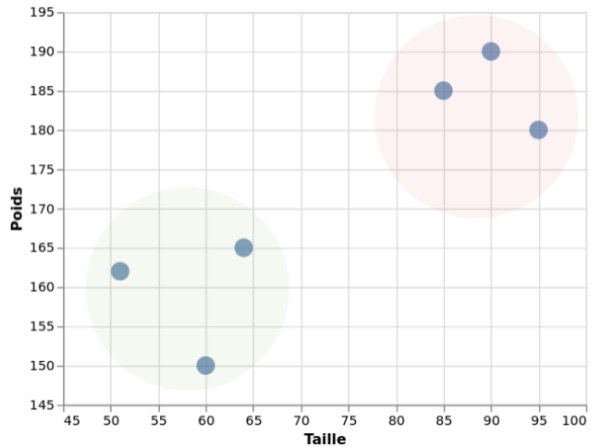
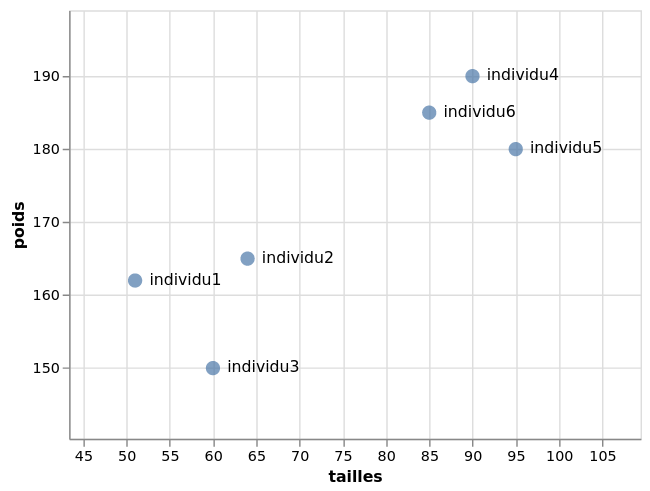
"Update PCA post ! Ready to publish

diff --git a/content/pca.md b/content/pca.md
@@ -1,86 +1,85 @@
 Title: L'analyse en composante principale
-Slug: lanalyse-en-composante-principale
-Date: 2020-07-12 17:48:28
-Modified: 2020-07-12 17:48:28
-Tags: 
+Slug: analyse-en-composante-principale
+Date: 2020-09-20 18:34:56
+Modified: 2020-09-20 18:34:56
+Tags: statistique,machine learning,python
 Category: informatique
-Author: Sacha schutz
+Author: Sacha SCHUTZ
 Status: Draft
+SIDEBARIMAGE:../images/common/stat_banner.jpg
 
-
-L'analyse en composante principale ou PCA (e component analysis) est une méthode de réduction de dimension,largement utilisé en statistique descriptive pour visualiser sur un graphique à 2 ou 3 dimensions des données décrite sur plus de 3 dimensions. 
-Dans ce billet, nous essayerons d'abord de comprendre le principe général avec l'exemple simple d'un passage de 2 dimensions à 1 dimensions. Les plus courageux pourront continuer à lire pour comprendre les mathématiques sous jacente et comment réaliser cette transformation en Python. 
+[L'analyse en composante principale](https://fr.wikipedia.org/wiki/Analyse_en_composantes_principales) ou PCA (Principal component analysis) est une méthode de [réduction de dimension,](https://fr.wikipedia.org/wiki/R%C3%A9duction_dimensionnelle) largement utilisée en [statistique descriptive](https://fr.wikipedia.org/wiki/Statistique_descriptive), pour visualiser sur un graphique à 2 ou 3 dimensions des données décrites sur plus de dimensions. 
+Dans ce billet, nous chercherons d'abord à comprendre le principe général avec l'exemple simple d'un passage de 2 dimensions à 1 dimension. Puis nous détaillerons les bases mathématiques sous-jacentes et comment réaliser cette transformation en Python.
 
 ## Tout commence avec un tableau
-Chaque fois que je suis amené à analyser des données, mon première reflexe et d'identifier un tableau de donnée ou chaque ligne represente une observation et chaque colonne une variable décrivant l'observation.
-Par exemple le tableau suivant, represente la taille et le poid chez 6 individus:
+Chaque fois que je suis amené à analyser des données, mon premier réflexe et d'identifier un tableau ou chaque ligne représente une observation et chaque colonne une variable décrivant l'observation. 
+Par exemple le tableau suivant, représente la taille et le poids chez 6 individus:
 
 <div class="figure"><img src="../images/pca/table.png" /><div class="legend">
 Tableau de données avec 6 observations et deux variables.
 </div> 
 </div>
 
-Un façon de visualiser ces données sur un graphique est de considéré chaque observations comme un point ( ou vecteur ) dans un espace à deux dimensions décrivant les deux variables. On observe alors 2 groupes de points qui se ressemble. 
+D'un point de vue géométrique, nous pouvons représenter chacune de ces 6 observations par un point (ou vecteur) dans un [espace](https://fr.wikipedia.org/wiki/Dimension_d%27un_espace_vectoriel) à 2 dimensions correspondant aux deux variables. Ce graphique nous montre alors la proximité entre les observations. Par exemple sur le graphique ci-dessous, les individus 1,2,3 et les individus 4,5,6 forment respectivement deux groupes.
 
 
 <div class="figure"><img src="../images/pca/2dplot.png" /><div class="legend">
-Répresentation dans un espace à deux dimensions du tableau de données. Chaque observation est representé par un point.
-Sont entouré, les groupes de points qui sont proche. 
-De façon général, les M observations du tableau de données peuvent être vu comme des vecteurs dans un espace à N dimensions. L'ensemble formant une matrice de dimension NxM.
+Représentation dans un espace à deux dimensions du tableau de données. Chaque observation est représentée par un point ou vecteur.
+De façon générale, les M observations d'un tableau de données peuvent être vu comme les M vecteurs dans un espace à N dimensions. L'ensemble formant une matrice de dimension NxM.
 </div> 
 </div>
 
+En ajoutant une nouvelle variable dans ce tableau, par exemple l'âge d'un individu, nous pouvons représenter les observations par un graphique à 3 dimensions. Mais avec plus de variables, et donc plus de dimensions cela devient problématique.      
+La solution à ce problème est la réduction de dimension en transformant par exemple un tableau à 10 variables vers un tableau à 2 variables facilement représentable sur un graphique.   
+Pour comprendre comment cette transformation fonctionne, partons d'un cas simple: La réduction d'un tableau à 2 dimensions vers un tableau à 1 dimension. Il suffira ensuite de généraliser cette méthode à N dimensions.
 
-En utilisant 3 variables, nous pourions faire un graphique à 3 dimensions. Mais avec plus de variable, et donc plus de dimensions cela devient problèmatique à répresenter.      
-La solution à ce problème est la réduction de dimension en transformant par exemple un tableau à 100 variables vers un tableau à 2 ou 3 variables facillement representable graphiquement.   
-Pour comprendre comment çela fonctionne, partons d'un cas simple. La réduction d'un tableau à  2 dimensions vers un tableau à 1 dimension. 
-
-## Passage 2 dimensions à 1 dimension 
-Reprenons notre graphique à 2 dimensions et essayons de le réduire à 1 dimensions. Pour cela, nous pouvons tracer un axe passant au mieux par tous les points. Puis faire la projection de chaque points sur cette axe. 
-Cette axe ou composante principale, permet alors de representer les données sur un graphique à 1 dimension avec les deux groupes de points toujours visible.  
+## Passage de 2 dimensions à 1 dimension
+Pour faire cette transformation, il faut s'imaginer un axe passant au mieux par tous les points. Puis faire la projection de chaque point sur cet axe. 
+Cet axe ou composante principale est une nouvelle dimension fictive qui nous permet de représenter les observations sur 1 dimension. Et comme vous pouvez le constater sur le graphique ci-dessous, les deux groupes identifiables dans l'espace bidimensionnel l'est toujours dans ce nouvelle espace unidimensionnel.
 
 <div class="figure"><img src="../images/pca/pca2D.png" /><div class="legend">
-Réduction de dimensions d'un espace à 2 dimensions vers in espace à 1 dimensions. 
-L'information des 2 groupes de points est conservés. 
+Réduction de dimensions d'un espace à 2 dimensions vers in espace à 1 dimension. Les deux groupes d'individus sont toujours identifiables.
 </div> 
 </div>
 
-Il y a cependant une perte d'information à prendre en compte comme l'illustre le graphique suivant. Plus les points sont corrélé entre eux, et plus l'information récupéré est grande. Gardez en tête qu'une réduction de dimension par PCA doit toujours être accompagné de la quantité d'information récupéré pour être interpretable.
+Il faut cependant garder en tête qu'il y a une perte d'information lorsque l'on réalise cette transformation. Des données différentes avant transformation peuvent aboutir aux mêmes résultats. Plus les points sont corrélés entre eux, et plus l'information récupérée après la réduction de dimension sera grande. Une réduction de dimension par PCA doit donc **TOUJOURS** s'accompagner de la quantité d'information récupérée pour être interprétable.
 
 <div class="figure"><img src="../images/pca/pca_information.png" /><div class="legend">
-Réduction de dimensions d'un espace à 2 dimensions vers in espace à 1 dimensions. 
-Dans les 3 exemples, la réduction de dimensions ammène aux même résultats. La différence est lié à la quantité d'information récupéré par la composante principale. Le premier graphique récupère que 40% de l'information tandisque la dernière récupère 90% de l'information.
+Réduction de dimensions d'un espace à 2 dimensions vers un espace à 1 dimensions. 
+Dans les 3 exemples, la réduction de dimensions amène aux mêmes résultats. La différence est liée à la quantité d'information récupérée par la composante principale. Le premier graphique récupère que 40% de l'information tandisque la dernière récupère 90% de l'information.
 </div> 
 </div>
 
-Une Analyse en composante principale c'est juste ça. Trouver les axes (ou composante principale) passants au mieux par l'ensemble des points. Dans notre cas, nous avons chercher un axe dans un espace 2D. Mais avec un peu d'abstraction de votre part, vous pouvez deviner qu'il est tout aussi possible de chercher 1,2 ou 3 axes passant au mieux parmis des points dans un espace à N dimensions. 
-L'exemple suivant est obtenu à partir du j[eux de données iris](https://fr.wikipedia.org/wiki/Iris_de_Fisher) contenant 50 observations de fleurs et 4 variables. 
 
-<div class="figure"><img src="../images/pca/iris.png" /><div class="legend">
-Réduction d'un espace à 4 dimensions vers un espace à 2 dimensions.
-</div> </div> 
+## Comprendre le calcul 
+Nous allons maintenant voir comment trouver ces axes par le calcul, pour ensuite généraliser la méthode à N dimensions. Pour cela, quelque prérequis d'[algèbre linéaire](https://fr.wikipedia.org/wiki/Alg%C3%A8bre_lin%C3%A9aire) sont nécessaires. 
 
-Chacun des deux composante (P1 et P2) represente un axe passant au mieux par l'ensemble des points dans l'espace à 4 dimensions. Ces 2 axes sont orthogonaux dans l'espace 4D et sont accompagné du pourcentage d'information récupéré. En effet, le premiere axe passe au mieux par les points puis le deuxième axes récupère l'information non récupéré par le premier. Si la somme des deux pourcentage est proche de 100%, c'est que l'information de vos données se résume très bien dans un espace 2D.
+### Transformation linéaire
 
-## Comprendre le calcul 
-Pour les plus curieux, nous allons expliquer en détail comme trouver ces deux axes par le calcul à l'aide d'une interpretation géométrique.
+En multipliant un [vecteur](https://fr.wikipedia.org/wiki/Vecteur) $\vec{v}$ (un point) par une [matrice](https://fr.wikipedia.org/wiki/Matrice) $M$  on obtient un nouveau vecteur $\vec{v_t}$. Autrement dit, on déplace le point vers un autre endroit grâce à une [matrice de transformation](https://en.wikipedia.org/wiki/Transformation_matrix).
 
-### Transformation linéaire
+$$ 
+\vec{v_t} = M \vec{v}
+$$
 
-En multipliant un vecteur (un point) par une matrice on obtient un nouveau vecteur. Autrement dit, on déplace le point vers un autre endroit. 
+Par exemple, en infographie, on utilise ces matrices pour réaliser différente transformation d'objet comme des rotations, des déformations, des agrandissements etc ...  
+Dans l'exemple ci-dessous, les 3 vecteurs (bleu, vert, rouge) définissent un carré. En faisant le produit de chaque vecteur par une matrice de  transformation, on obtient 3 nouveaux vecteurs représentant le carré transformé. Essayer [ce site ](https://web.ma.utexas.edu/users/ysulyma/matrix/)pour tester.
 
-equation
-v' = v * M
+<div class="figure"><img src="../images/pca/matrix_transformation.png" /><div class="legend"> Différente matrice de transformation sur un un objet à 3 vecteurs<a href="https://en.wikipedia.org/wiki/Transformation_matrix"> Source </a></div> </div>
 
-Des matrices particulière, appelé matrice de transformation, sont largement utilisé en infographie pour réaliser des translations, des rotations ou des redimensionnement en 2 ou en 3 dimensions. 
-Par exemple, dans le cas ci-dessous, les 4 vecteurs définissant le carré sont transformé par la matrice de transformation M . Je vous invite à tester en ligne les differences transformation possible. 
 
 ### Vecteur propre et valeur propre 
 
-Le vecteur propre d'une matrice de transformation est un vecteur qui ne change pas sa direction après transformation. Quand à la valeur propre, elle indique le facteur d'elongation de ce vecteur après transformation. 
-Dans l'exemple, ci-dessus, la transformation à 2 deux vecteurs propres ... 
+Les [vecteurs propres ](https://fr.wikipedia.org/wiki/Valeur_propre,_vecteur_propre_et_espace_propre)(eigen vector) d'une matrice de transformation sont les vecteurs qui ne changent pas de direction après transformation. Chacun de ces vecteurs est associé à une [valeur propre](https://fr.wikipedia.org/wiki/Valeur_propre,_vecteur_propre_et_espace_propre) $\lambda$ (eigen value) indiquant le degré d'élongation. 
 
-<center>Pour trouver les vecteurs et valeurs propres de la matrice A:</center>
+<div class="figure"><img src="../images/pca/eigen_transformation.png" /><div class="legend">
+Transformation d'un vecteur propre v par une matrice de transformation. Le vecteur transformé vt conserve sa direction. La valeur propre est de 2.
+</div> 
+</div>
+
+
+### Calcul du vecteur et de la valeur propre
+Pour trouver les vecteurs et valeurs propres d'une matrice A: 
 
 $$ A = \begin{bmatrix}
 a & b \\ 
@@ -88,7 +87,7 @@ c & d
 \end{bmatrix}
 $$
 
-<center>Il faut donc résoudre l'equation suivante</center>
+<center>Il faut donc résoudre l'équation suivante.</center>
 
 $$A\vec{v} = \lambda \vec{v}$$
 
@@ -96,7 +95,7 @@ $$A\vec{v} = \lambda \vec{v}$$
 
 $$(A-\lambda I) \vec{v} = \vec{0}$$
 
-<center>Cette equation admet des solution(s) $\lambda$ si :</center> 
+<center>Cette équation admet des solution(s) $\lambda$ si :</center> 
 
 $$det(A-\lambda I) = 0 $$
 
@@ -107,87 +106,120 @@ c & d - \lambda
 \end{bmatrix}) = 0
 $$
 
-<center>Pour trouver $\lambda$ Il suffit donc de résoudre : </center>
+<center>Pour trouver $\lambda$ il suffit donc de résoudre : </center>
 
 $$
 (a - \lambda)(c - \lambda) - bc = 0
 $$
 
-En remplacant lambda dans l'equation d'origine, ou trouve alors les vecteurs propres associés. 
+En remplaçant lambda dans l'équation d'origine, nous trouvons alors les vecteurs propres associés.     
+Avant de comprendre en quoi les vecteurs propres sont utiles pour notre réduction de dimension, il nous faut encore définir une chose: *la matrice de covariance*.
 
 ### Matrice de covariance 
-**La variance** d'une variable x, informe de la dispersion des données autour de la moyenne. C'est la moyenne de tous les écarts à la moyenne.
+**La variance** d'une variable x, informe de la dispersion des données autour de la moyenne. C'est la moyenne de tous les écarts à la moyenne au carré.
 Elle s'écrit : 
 
 $$var(x) = \frac{1}{N} \sum_{i=0}^{n} (x-\bar{x})^{2}$$
 
 Dans notre tableau, la variance de la taille et du poids sont respectivement de 328.5 et 238.
 
-**La covoariance** entre deux variables indique la variance d'une variable x par rapport à une variable y. Elle indique le dégrés de corrélation entre deux variable. Elle s'écrit :
+**La covariance** entre deux variables indique la variance d'une variable x par rapport à une variable y. Elle indique le degré de corrélation entre deux variables. Elle s'écrit :
 
 $$cov(x,y) = \frac{1}{N} \sum_{i=0}^{n} (x_i - \bar{x})(y_i - \bar{y})$$
 
-Plus les variables x et y sont corrélé, plus la valeur absolu de la covariance est grande : 
+Plus les variables x et y sont corrélé, plus la valeur absolue de la covariance est grande : 
 
 <div class="figure"><img src="../images/pca/cov.png" /><div class="legend">
 
 </div> </div> 
 
-**La matrice de covariance** est une matrice carré contenant l'ensemble des covariance entre variable pris 2 à 2. 
+**La matrice de covariance** est une matrice carrée contenant l'ensemble des covariances entre variables prises 2 à 2. 
 
 $$M = \begin{bmatrix}
 cov(x,x) & cov(x,y) \\ 
 cov(y,x) & cov(y,y) 
 \end{bmatrix}$$
 
-Avec notre tableau des 6 individus et 2 variables, nous obtenons : 
 
-<div class="figure"><img src="../images/pca/cov_df.png" /><div class="legend">
+### Trouver les axes principaux
+Vous avez maintenant tous les ingrédients pour comprendre comment trouver les axes passant aux mieux par vos données. Car voilà... Les axes d'une analyse en composante principale correspondent aux **vecteurs propres** de la matrice de covariance de vos données. Et la quantité d'information récupérée par chaque axe correspond aux **valeurs propres** de leurs vecteurs associés. 
+
+<div class="figure"><img src="../images/pca/eigen_2d.png" /><div class="legend">
+Les vecteurs propres de la matrice de covariance correspondent aux deux axes passant aux mieux par les données. Ici l'axe 1 récupère davantage d'information que l'axe 2. 
+Les vecteurs propres sont toujours orthogonaux entre eux.
+</div> 
+</div>
+
+En généralisant, pour réduire un espace à N dimension vers un espace à K dimensions, il suffit de faire la projection des points de l'espace de départ sur les K premiers vecteurs propres qui récupère le maximum d'information. C'est à dire ceux qui ont les valeurs propres les plus grande. 
+Passons à la pratique pour voir, en réalisant toutes ces opérations en Python.
+
+## Analyse en composante principale en Python 
+
+Pour cela, nous allons tester à partir du [jeux de données iris](https://fr.wikipedia.org/wiki/Iris_de_Fisher) contenant 50 observations de fleurs et 4 variables (ou 4 dimensions) en réduisant ces données sur 2 dimensions. 
+
+```python
+import numpy as np 
+from numpy import linalg as LA
+from sklearn import datasets
+from sklearn.decomposition import PCA
+
+# Téléchargement du jeux de données iris 
+!wget https://raw.githubusercontent.com/mwaskom/seaborn-data/master/iris.csv
+iris = pd.read_csv("iris.csv")
+
+# On conserve que les 4 premières colonnes 
+data = iris.iloc[:,:-1]
+
+# La dernière correspond aux noms d'espèces
+species = iris.iloc[:,-1:]
+
+# Calcul de la matrice de covariance 
+cov_matrix = data.cov()
+
+# Calcul des vecteurs et valeurs propres de la matrice de covariance 
+eigen_values, eigen_vectors = LA.eig(cov_matrix)
+
+# Calcul de l'information récupéré en pourcentage sur les 2 premiers axes
+info = (eigen_values / sum(eigen_values) * 100).round(2)
+axe1_info = info[0]
+axe2_info = info[2]
+
+# Projection des points sur les deux premiers vecteurs 
+projection_matrix = eigen_vectors.T[:][:2].T
+data_t = data.dot(projection_matrix)
+
+# Affichage des nouvelles données à 2 dimensions
+data_t.columns = ["axe1", "axe2"]
+data_t["species"] = species
+
+alt.Chart(data_t).mark_point().encode(
+    x=alt.X("axe1", title=f"axe 1 {axe1_info}%"), 
+    y=alt.Y("axe2", title=f"axe 2 {axe2_info}%"), 
+    color="species")
+
+```
+
+
+<div class="figure"><img src="../images/pca/iris.png" /><div class="legend">
+Réduction d'un espace à 4 dimensions vers un espace à 2 dimensions.
 </div> </div> 
 
-
-
-### Trouver les axes 
-
-Les vecteurs propres de la matrice de covariance sont les axes recherches. 
-La valeurs propre indique la quantité d'information récupéré. 
-
-array([528.89387928,  37.67278739])
-
-array([[ 0.76953573, -0.63860376],
-       [ 0.63860376,  0.76953573]])
-
-### Projection des vecteurs sur les axes 
-
-Il suffit maintenant de projeter les points sur le vecteur choisi à l'aide de l'equation suivante : ...
-
-
-
-## En Python 
-
-### avec numpy 
-
-#### Avec sklearn
-
-
+Ce graphique représente donc la projection d'observation d'un espace à 4 dimensions vers un espace à deux dimensions. Ces 2 axes sont accompagnés du pourcentage d'information récupéré grâce aux valeurs propres. Le premier axe récupère 92,46% de l'information puis le second récupère 5.31%. Au total, les 2 premiers axes ont récupéré plus de 97% de l'information. Et comme les couleurs nous le montre, nous constatons que les fleurs de la même espèce sont à proximité dans cette espace bidimensionnel. 
 
 
 ## Conclusion 
-L'analyse en composante principale est une méthode parmi d'autre, de réduction de dimension. Il existe d'autre méthode avec chacune leurs avantage. Notaemmment les méthodes non linéaire comme t-SNE ou UMAP. 
-sachez aussi que la PCA a d'autre application en informatique, notamment dans le traitement d'image et la réduction du bruit. En effet si vous faite une PCA puis si vous refaite l'inverse, alors vous supprimerez le bruit comme l'illustre l'image ci-dessous.
-
-https://towardsdatascience.com/the-jewel-of-the-matrix-a-deep-dive-into-eigenvalues-eigenvectors-22f1c8da11fd
-
-https://www.visiondummy.com/2014/04/geometric-interpretation-covariance-matrix/
+Nous avons vu dans ce billet, comment réaliser une analyse en composante principale pas à pas. Bien entendu, il existe des librairies permettant de réaliser cette transformation en une ligne, comme [ici avec sklearn](https://scikit-learn.org/stable/auto_examples/decomposition/plot_pca_iris.html). Mais, c'est toujours bien de comprendre comment ça marche ! 
+Par ailleurs, l'analyse en composante principale est une méthode parmi d'autres, de réduction de dimension. Il en existe d'autres avec chacune leurs avantages. Notamment des méthodes non linéaires comme [t-SNE](https://fr.wikipedia.org/wiki/Algorithme_t-SNE) ou [UMAP](https://en.wikipedia.org/wiki/Nonlinear_dimensionality_reduction). 
+Sachez aussi que la PCA a d'autres applications en informatique, notamment dans le traitement d'image, la compression et la réduction du bruit. En effet si vous faites une PCA sur une image, vous récupérer le maximum d'information utile sans le bruit. En faisant l'inverse d'une PCA, vous reconstituerez alors une image débruitée. 
 
 
-https://medium.com/@kyasar.mail/pca-principal-component-analysis-729068e28ec8
+
+## Réferences 
+- [Statquest (youtube) ACP en 5 minutes](https://www.youtube.com/watch?v=HMOI_lkzW08)
+- [The Jewel of the Matrix: A Deep Dive Into Eigenvalues & Eigenvectors](https://towardsdatascience.com/the-jewel-of-the-matrix-a-deep-dive-into-eigenvalues-eigenvectors-22f1c8da11fd)
+- [A geometric interpretation of the covariance matrix](https://www.visiondummy.com/2014/04/geometric-interpretation-covariance-matrix/)
+- [PCA: Principal Component Analysis](https://medium.com/@kyasar.mail/pca-principal-component-analysis-729068e28ec8)
 
 
-## Autre application 
-On peut faire autre chose, comme la compression 
-
-## conclusion 
-autres methodes 
 
 
